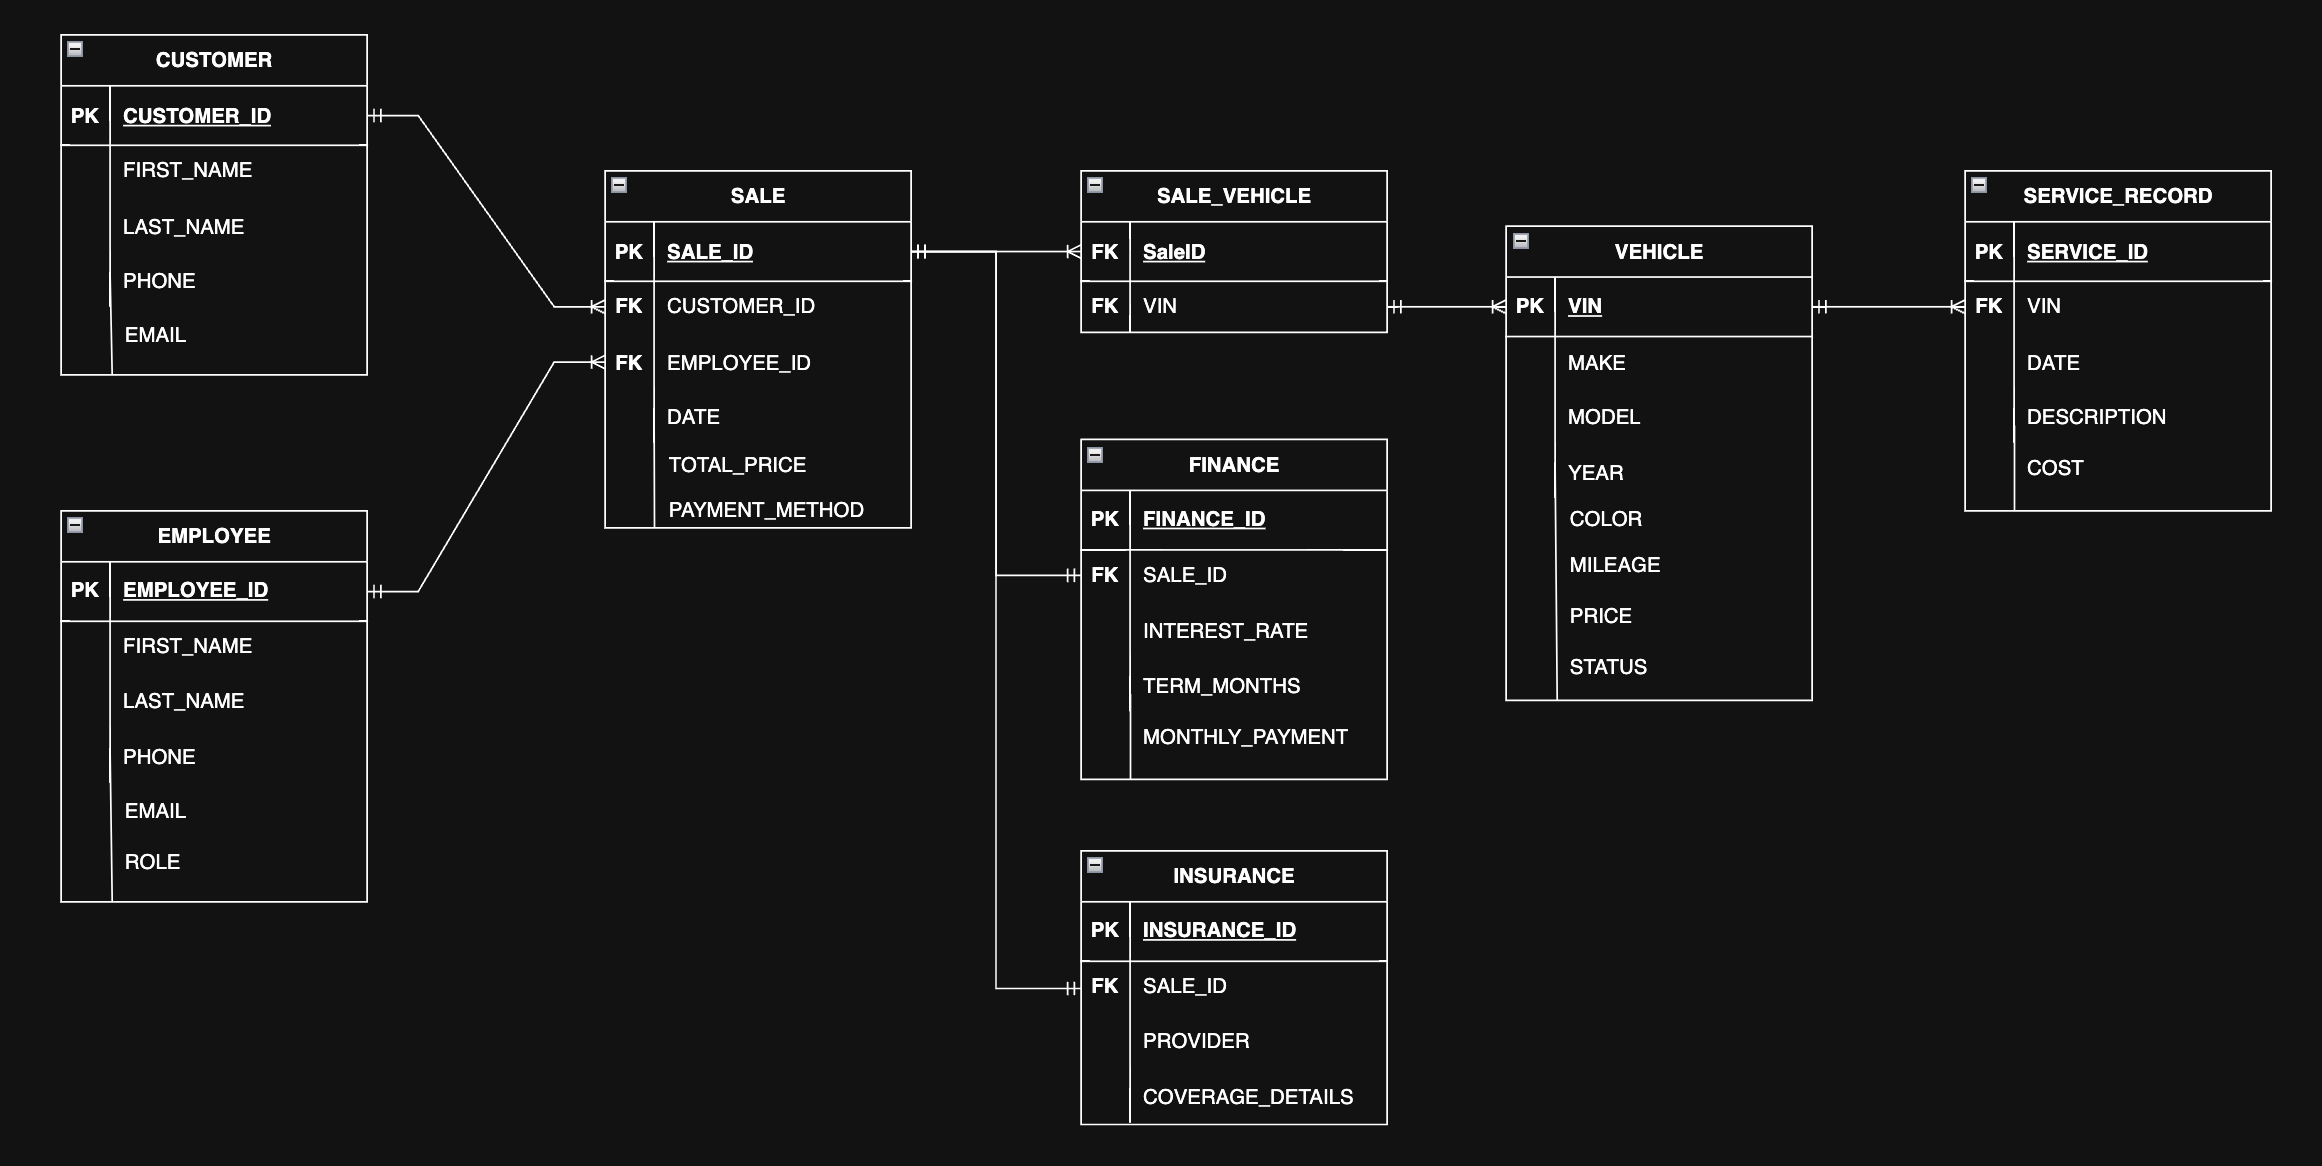
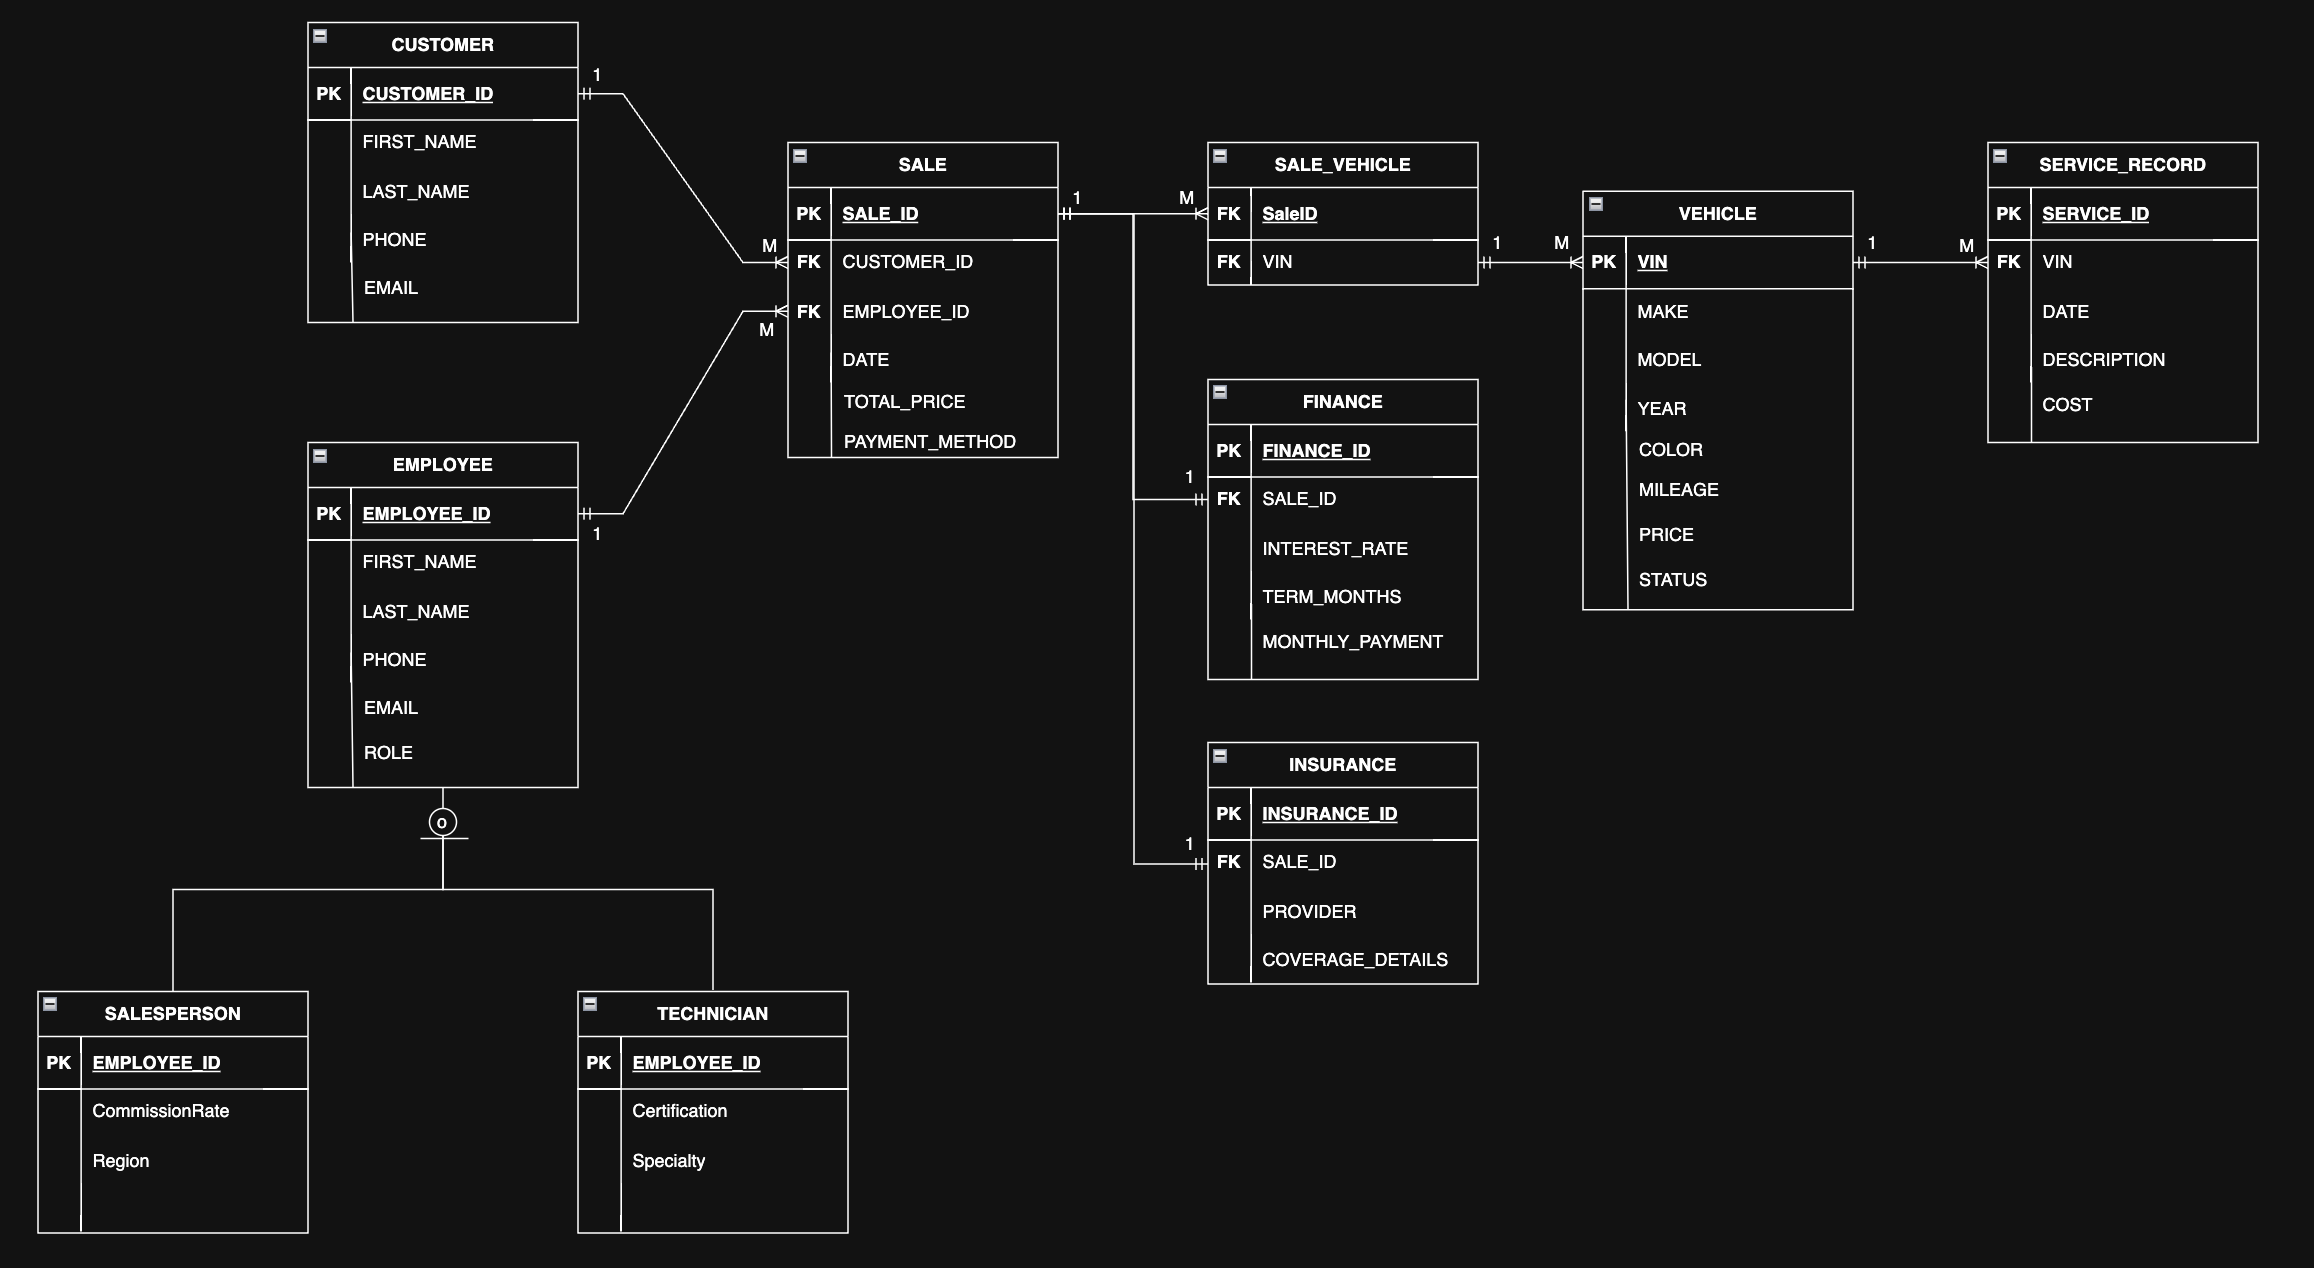
UPDATED: I updated the ERD Model along with being prep work for SQL

diff --git a/NOTES/02 - RELATIONSHIP TYPES/RELATIONSHIP TYPES.md b/NOTES/02 - RELATIONSHIP TYPES/RELATIONSHIP TYPES.md
@@ -4,6 +4,6 @@
 | Customer — Sale         | 1:M                    | A customer can make many purchases.                                                                       |
 | Employee — Sale         | 1:M                    | A salesperson can handle many sales.                                                                      |
 | Sale — Vehicle          | M:N (via bridge table) | A sale can include multiple vehicles, and a vehicle can be part of a sale (resolved using `SaleVehicle`). |
-| Sale — Finance          | 1:1 (optional)         | Each sale can have zero or one financing agreement.                                                       |
-| Sale — Insurance        | 1:1 (optional)         | Each sale can have zero or one insurance record.                                                          |
+| Sale — Finance          | 1:1                    | Each sale can have zero or one financing agreement.                                                       |
+| Sale — Insurance        | 1:1                    | Each sale can have zero or one insurance record.                                                          |
 | Vehicle — ServiceRecord | 1:M                    | A vehicle can have multiple service records.                                                              |
